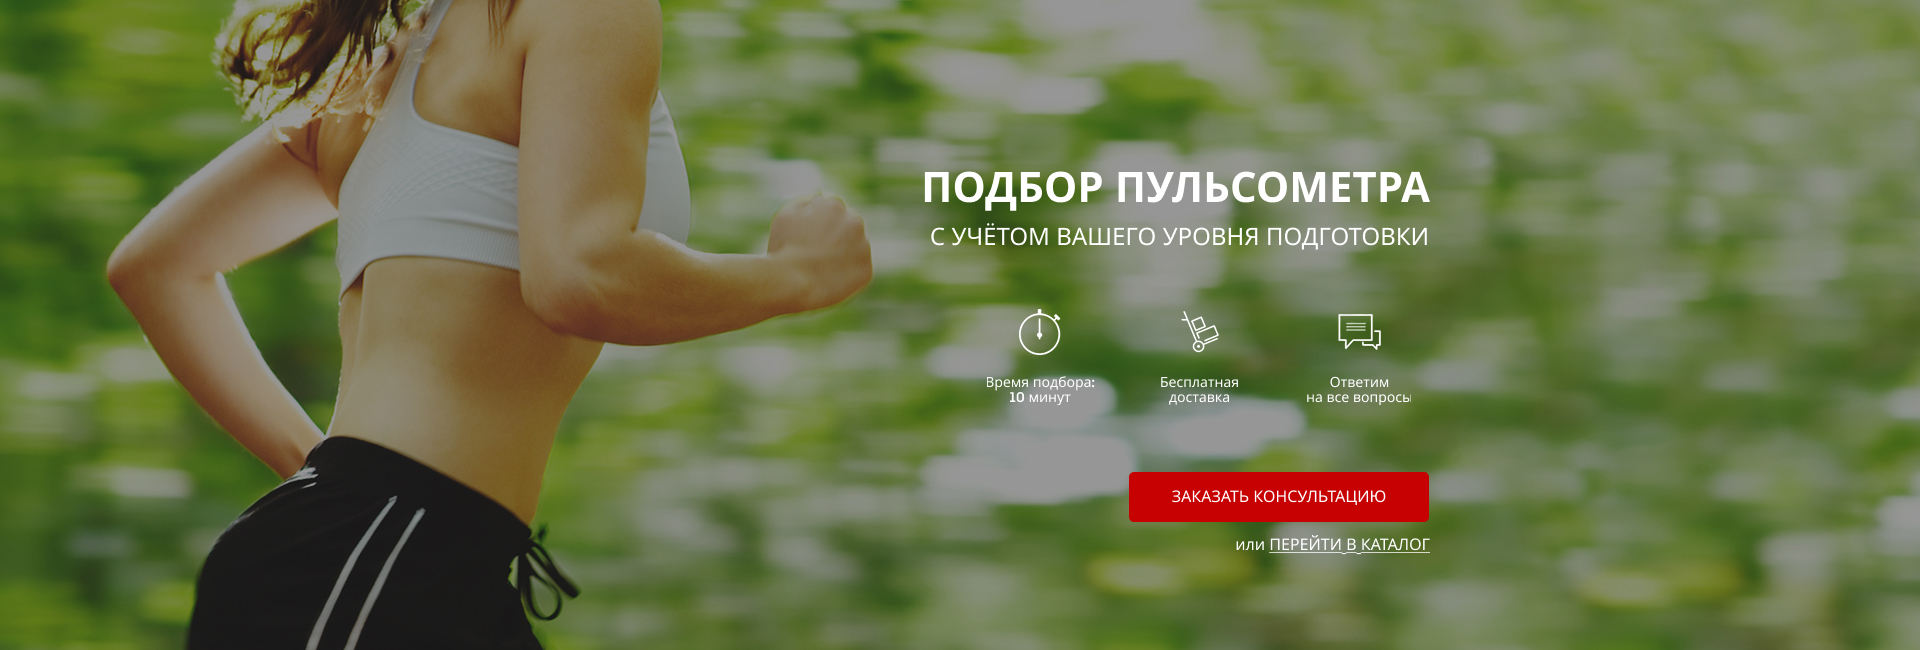
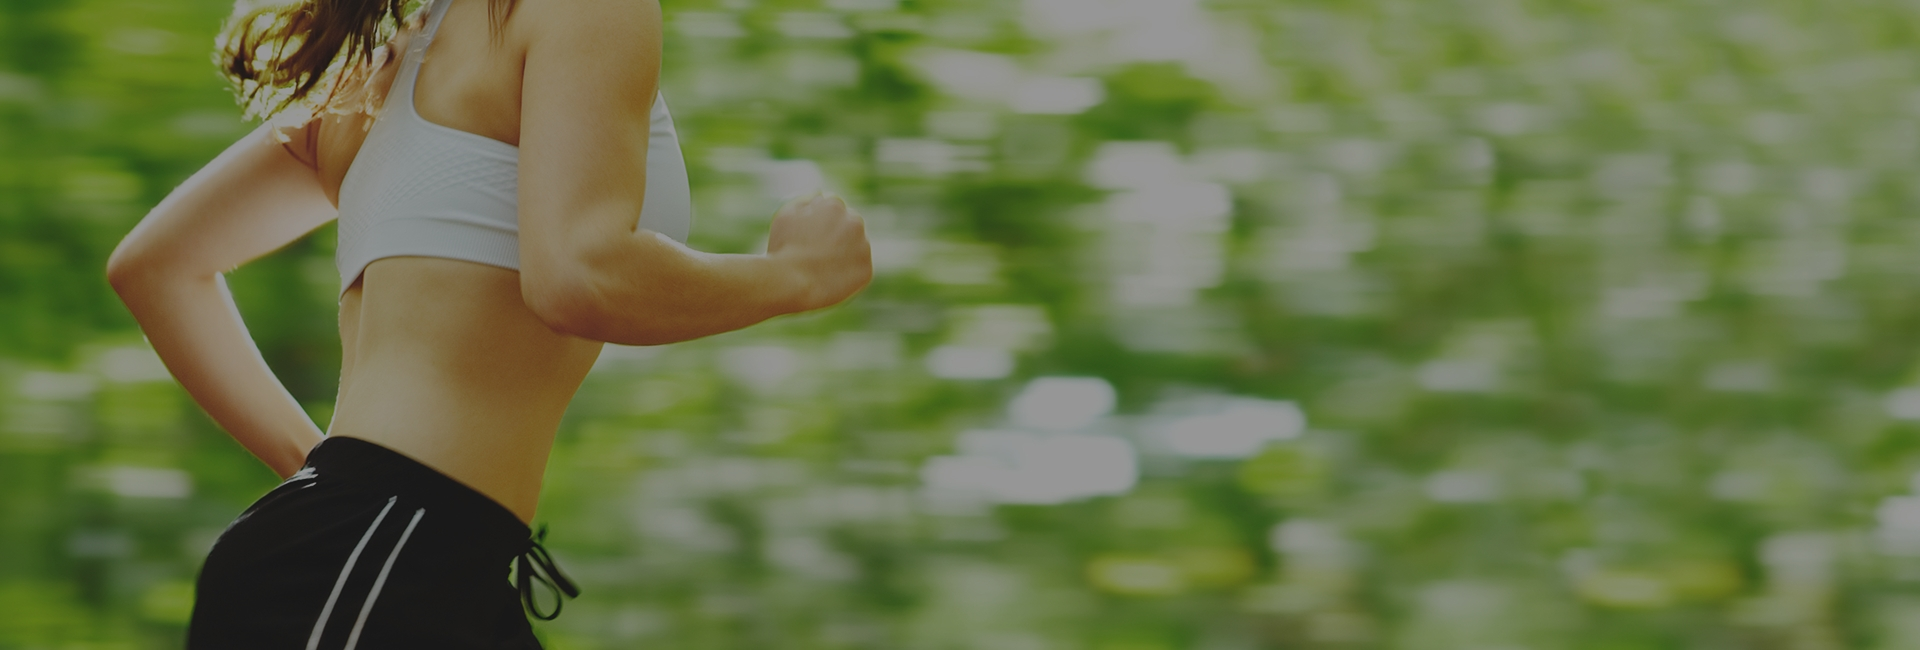
scss files

diff --git a/src/index.html b/src/index.html
@@ -10,6 +10,22 @@
     <link rel="stylesheet" href="css/style.min.css">
 </head>
 <body>
-    
+    <div class="promo">
+        <div class="container">
+            <header class="header">
+                <a href="#" class="header__logo">
+                    <img src="icons/logo.png" alt="logo">
+                </a>
+                <div class="header__official">
+                    Официальный представитель
+                    <span>Garmin, Polar, Suunto</span>
+                </div>
+                <div class="header__contacts">
+                    <a href="tel:+74999228974" class="header_phone">+7 (499) 922-89-74</a>
+                    <button class="button">Заказать звонок</button>
+                </div>
+            </header>
+        </div>
+    </div>
 </body>
 </html>

diff --git a/src/css/style.min.css b/src/css/style.min.css
@@ -1,0 +1,1 @@
+*{font-family:"Museo Sans Cyrl",sans-serif}.container{min-width:950px;margin:0 auto}.promo{min-height:650px;padding:21px 0 93px 0;background:url(../../img/main.jpg) center center/cover no-repeat}.header{display:flex;justify-content:space-between;align-items:center}.header__logo{width:250px}.header__logo img{width:90%}.header__official{color:#fff;font-family:"Museo Sans Cyrl -500";font-size:12px;font-weight:500}.header__official span{display:block;font-size:18px}

diff --git a/src/sass/blocks/_header.scss b/src/sass/blocks/_header.scss
@@ -1,0 +1,21 @@
+.header {
+    display: flex;
+    justify-content: space-between;
+    align-items: center;
+    &__logo {
+        width: 250px;
+        img {
+            width: 90%;
+        }
+    }
+    &__official {
+        color: #fff;
+        font-family: "Museo Sans Cyrl -500";
+        font-size: 12px;
+        font-weight: 500;
+        span {
+            display: block;
+            font-size: 18px;
+        }
+    }
+}

diff --git a/src/sass/style.scss b/src/sass/style.scss
@@ -1,0 +1,12 @@
+@import 'base/variables';
+* {
+    font-family: 'Museo Sans Cyrl', sans-serif;
+}
+
+.container {
+    min-width: 950px;
+    margin: 0 auto;
+}
+
+@import 'blocks/promo';
+@import 'blocks/header.scss';

diff --git a/src/sass/blocks/_promo.scss b/src/sass/blocks/_promo.scss
@@ -1,0 +1,5 @@
+.promo {
+    min-height: 650px;
+    padding: 21px 0 93px 0;
+    background: url(../../img/main.jpg) center (center/cover) no-repeat;
+}

diff --git a/src/sass/base/_variables.scss b/src/sass/base/_variables.scss
@@ -1,0 +1,1 @@
+$main-color: #c70101
